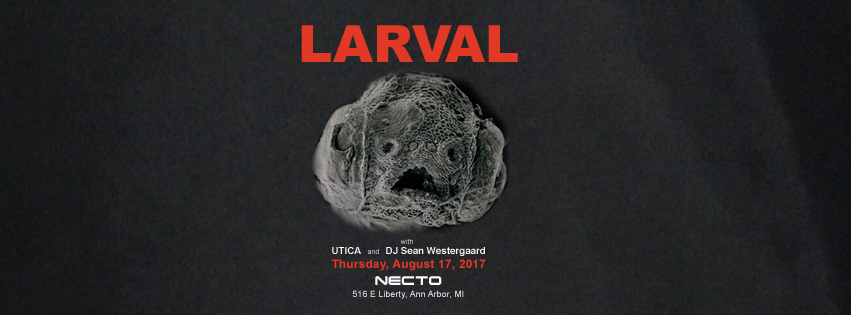
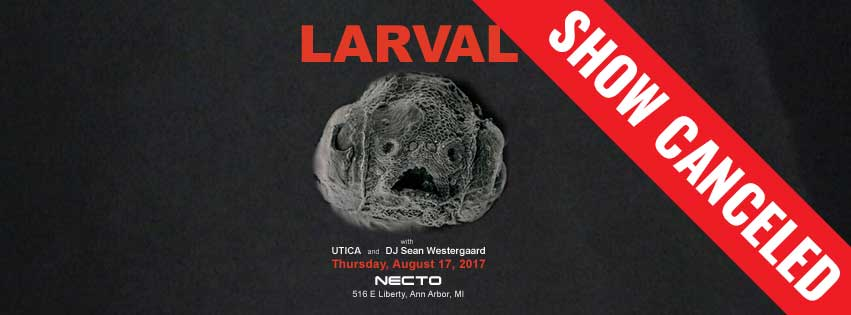
canceled a show

Changed region(s): [[0.3361, 0.0, 1.0, 1.0], [0.3972, 0.8, 0.5805, 0.8571], [0.3361, 0.0571, 0.3666, 0.0857]]

diff --git a/js/events.js b/js/events.js
@@ -211,10 +211,10 @@ var eventsJSON = [
     },
     {
         "eventDate"    : new Date("Aug 17, 2017 19:00:00"),
-        "eventName"    : "Larval with opening artist Utica & DJ Sean Westergaard",
-        "eventArtist"  : "Larval",
-        "eventDesc"    : "Detroit avant-garde art rock with New York City origins. Formed in 1995 by Bill Brovold (NYC) and Erik Gustafson (Detroit), the original lineup reunites (guitars: Brovold, Gustavson, and Beth Wilusz, bass: Dean Western, violin: Mary Alice, saxophones: John Evans, drums: Will Osler).",
-        "eventDescLong": "Detroit avant-garde art rock with New York City origins. Formed in 1995 by Bill Brovold (NYC) and Erik Gustafson (Detroit), the original lineup reunites (guitars: Brovold, Gustavson, and Beth Wilusz, bass: Dean Western, violin: Mary Alice, saxophones: John Evans, drums: Will Osler). ",
+        "eventName"    : "Larval with opening artist Utica & DJ Sean Westergaard - CANCELED",
+        "eventArtist"  : "Larval - CANCELED",
+        "eventDesc"    : "THIS SHOW HAS BEEN CANCELED. Refunds available through Eventbrite.com.</br></br>Detroit avant-garde art rock with New York City origins. Formed in 1995 by Bill Brovold (NYC) and Erik Gustafson (Detroit), the original lineup reunites (guitars: Brovold, Gustavson, and Beth Wilusz, bass: Dean Western, violin: Mary Alice, saxophones: John Evans, drums: Will Osler).",
+        "eventDescLong": "THIS SHOW HAS BEEN CANCELED. Refunds available through Eventbrite.com.</br></br>Detroit avant-garde art rock with New York City origins. Formed in 1995 by Bill Brovold (NYC) and Erik Gustafson (Detroit), the original lineup reunites (guitars: Brovold, Gustavson, and Beth Wilusz, bass: Dean Western, violin: Mary Alice, saxophones: John Evans, drums: Will Osler). ",
         "eventCover"   : "Presale tickets - Early Bird 4 Pack $20 | 4 Pack $30 | GA $10 | Doors $12",
         "eventLink"    : "special-events/" + "larval-at-necto-nightclub-ann-arbor-michigan-aug-17th-2017.html",
         "eventSocial"  : "https://www.facebook.com/events/157140574835014/",

diff --git a/js/events-min.js b/js/events-min.js
@@ -211,10 +211,10 @@ var eventsJSON = [
  },
  {
  "eventDate" : new Date("Aug 17, 2017 19:00:00"),
- "eventName" : "Larval with opening artist Utica & DJ Sean Westergaard",
- "eventArtist" : "Larval",
- "eventDesc" : "Detroit avant-garde art rock with New York City origins. Formed in 1995 by Bill Brovold (NYC) and Erik Gustafson (Detroit), the original lineup reunites (guitars: Brovold, Gustavson, and Beth Wilusz, bass: Dean Western, violin: Mary Alice, saxophones: John Evans, drums: Will Osler).",
- "eventDescLong": "Detroit avant-garde art rock with New York City origins. Formed in 1995 by Bill Brovold (NYC) and Erik Gustafson (Detroit), the original lineup reunites (guitars: Brovold, Gustavson, and Beth Wilusz, bass: Dean Western, violin: Mary Alice, saxophones: John Evans, drums: Will Osler). ",
+ "eventName" : "Larval with opening artist Utica & DJ Sean Westergaard - CANCELED",
+ "eventArtist" : "Larval - CANCELED",
+ "eventDesc" : "THIS SHOW HAS BEEN CANCELED. Refunds available through Eventbrite.com.</br></br>Detroit avant-garde art rock with New York City origins. Formed in 1995 by Bill Brovold (NYC) and Erik Gustafson (Detroit), the original lineup reunites (guitars: Brovold, Gustavson, and Beth Wilusz, bass: Dean Western, violin: Mary Alice, saxophones: John Evans, drums: Will Osler).",
+ "eventDescLong": "THIS SHOW HAS BEEN CANCELED. Refunds available through Eventbrite.com.</br></br>Detroit avant-garde art rock with New York City origins. Formed in 1995 by Bill Brovold (NYC) and Erik Gustafson (Detroit), the original lineup reunites (guitars: Brovold, Gustavson, and Beth Wilusz, bass: Dean Western, violin: Mary Alice, saxophones: John Evans, drums: Will Osler). ",
  "eventCover" : "Presale tickets - Early Bird 4 Pack $20 | 4 Pack $30 | GA $10 | Doors $12",
  "eventLink" : "special-events/" + "larval-at-necto-nightclub-ann-arbor-michigan-aug-17th-2017.html",
  "eventSocial" : "https://www.facebook.com/events/157140574835014/",
